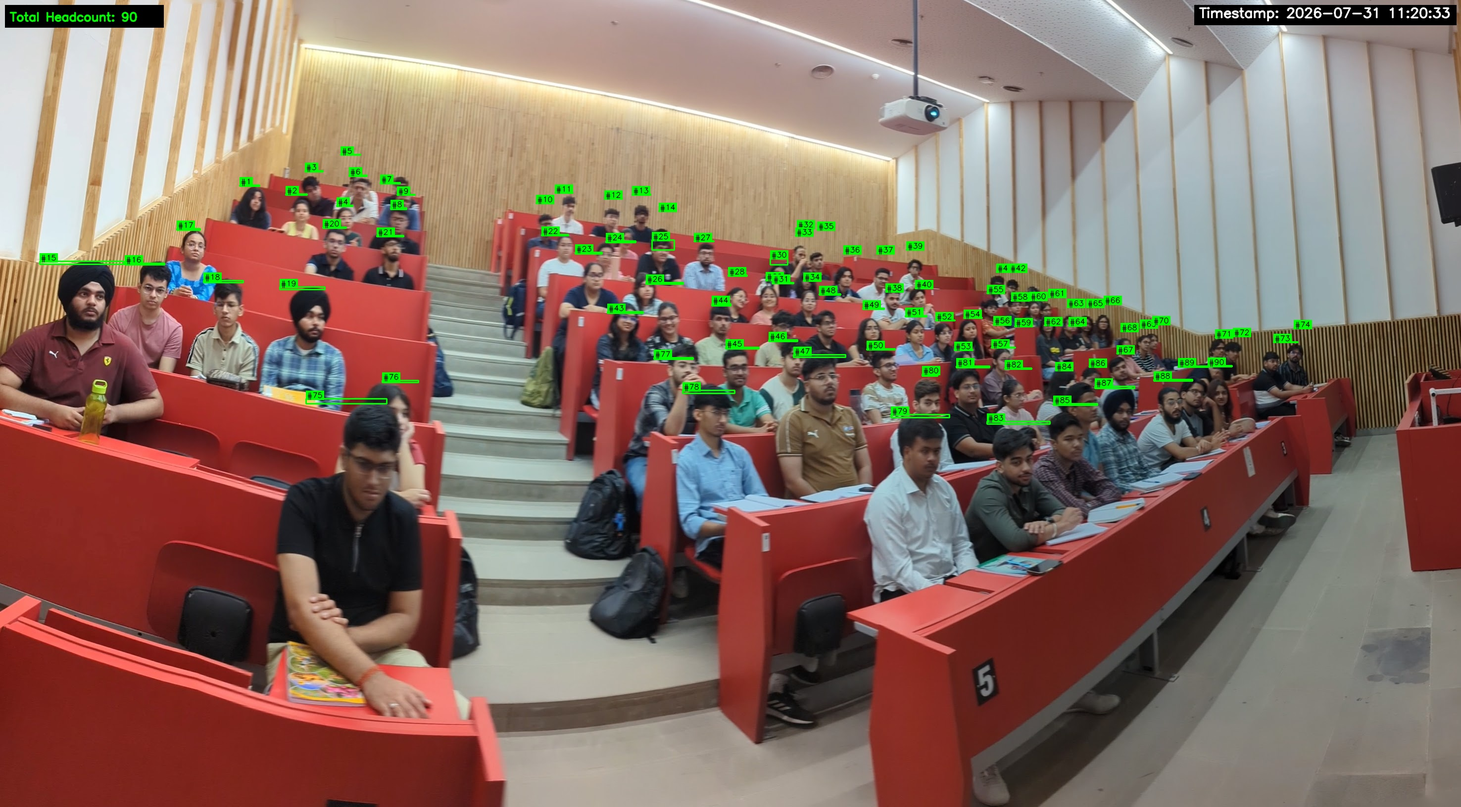
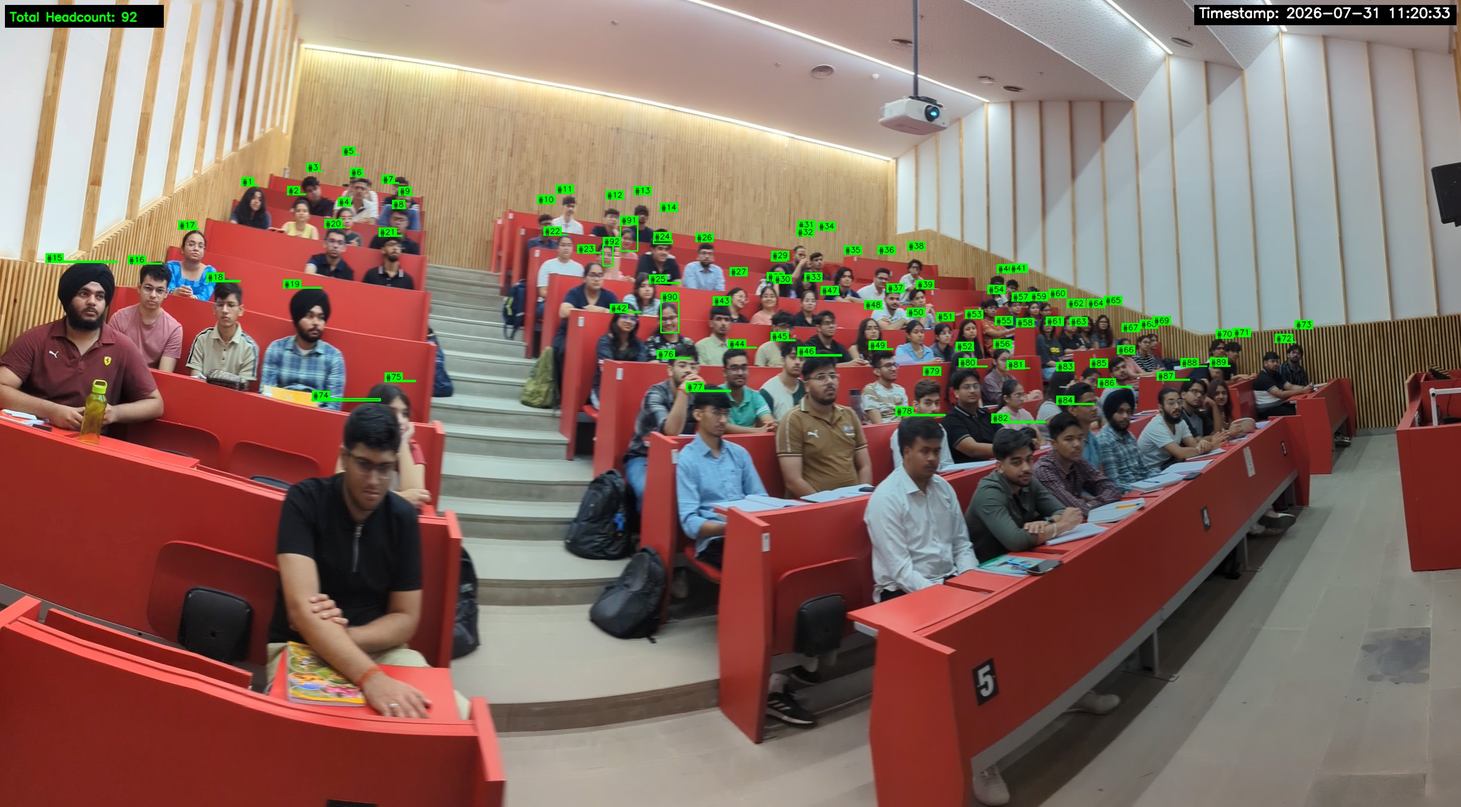
modified:   Dataset/Annotated/31_07_2026_2C7.json 	modified:   Dataset/Preview/31_07_2026_2C7.jpg 	modified:   driver.py

diff --git a/attendance/driver.py b/attendance/driver.py
@@ -44,20 +44,28 @@ def run_pipeline():
     # ---------------------------------------------------------
     print_banner(2, "LAUNCHING INTERACTIVE ANNOTATOR")
     print("💡 Adjust bounding boxes in the window that opens:")
-    print("   • Press 'S' to save & continue to cleanup.")
-    print("   • Press 'Q' or ESC to skip fine-tuning and proceed.")
+    print("   • Press 'S' to save changes.")
+    print("   • Press 'Q' or ESC to skip fine-tuning.")
     
     # Run interactive OpenCV GUI tool
     annotate.run_interactive_annotator()
 
     # ---------------------------------------------------------
-    # STEP 3: Clean up, Convert to Face Bboxes, and Sort
+    # STEP 3: Optional Cleanup, Face Bbox Refinement & Sorting
     # ---------------------------------------------------------
-    print_banner(3, "RUNNING CLEANUP & ROW-BY-ROW SORTING")
-    cleanup.cleanup_and_sort_json(
-        iou_threshold=config.IOU_THRESHOLD, 
-        row_tolerance=config.ROW_TOLERANCE
-    )
+    print_banner(3, "CLEANUP & ROW SORTING (OPTIONAL)")
+    
+    # Ask the user if they want to perform cleanup
+    user_choice = input("👉 Do you want to run face cleanup & row-by-row sorting? (y/N): ").strip().lower()
+
+    if user_choice in ("y", "yes"):
+        print("\n🧹 Executing Cleanup...")
+        cleanup.cleanup_and_sort_json(
+            iou_threshold=config.IOU_THRESHOLD, 
+            row_tolerance=config.ROW_TOLERANCE
+        )
+    else:
+        print("\n⏩ Skipped cleanup & sorting. Keeping manual annotations as-is.")
 
     # ---------------------------------------------------------
     # STEP 4: Regenerate Final Visualizer Preview
